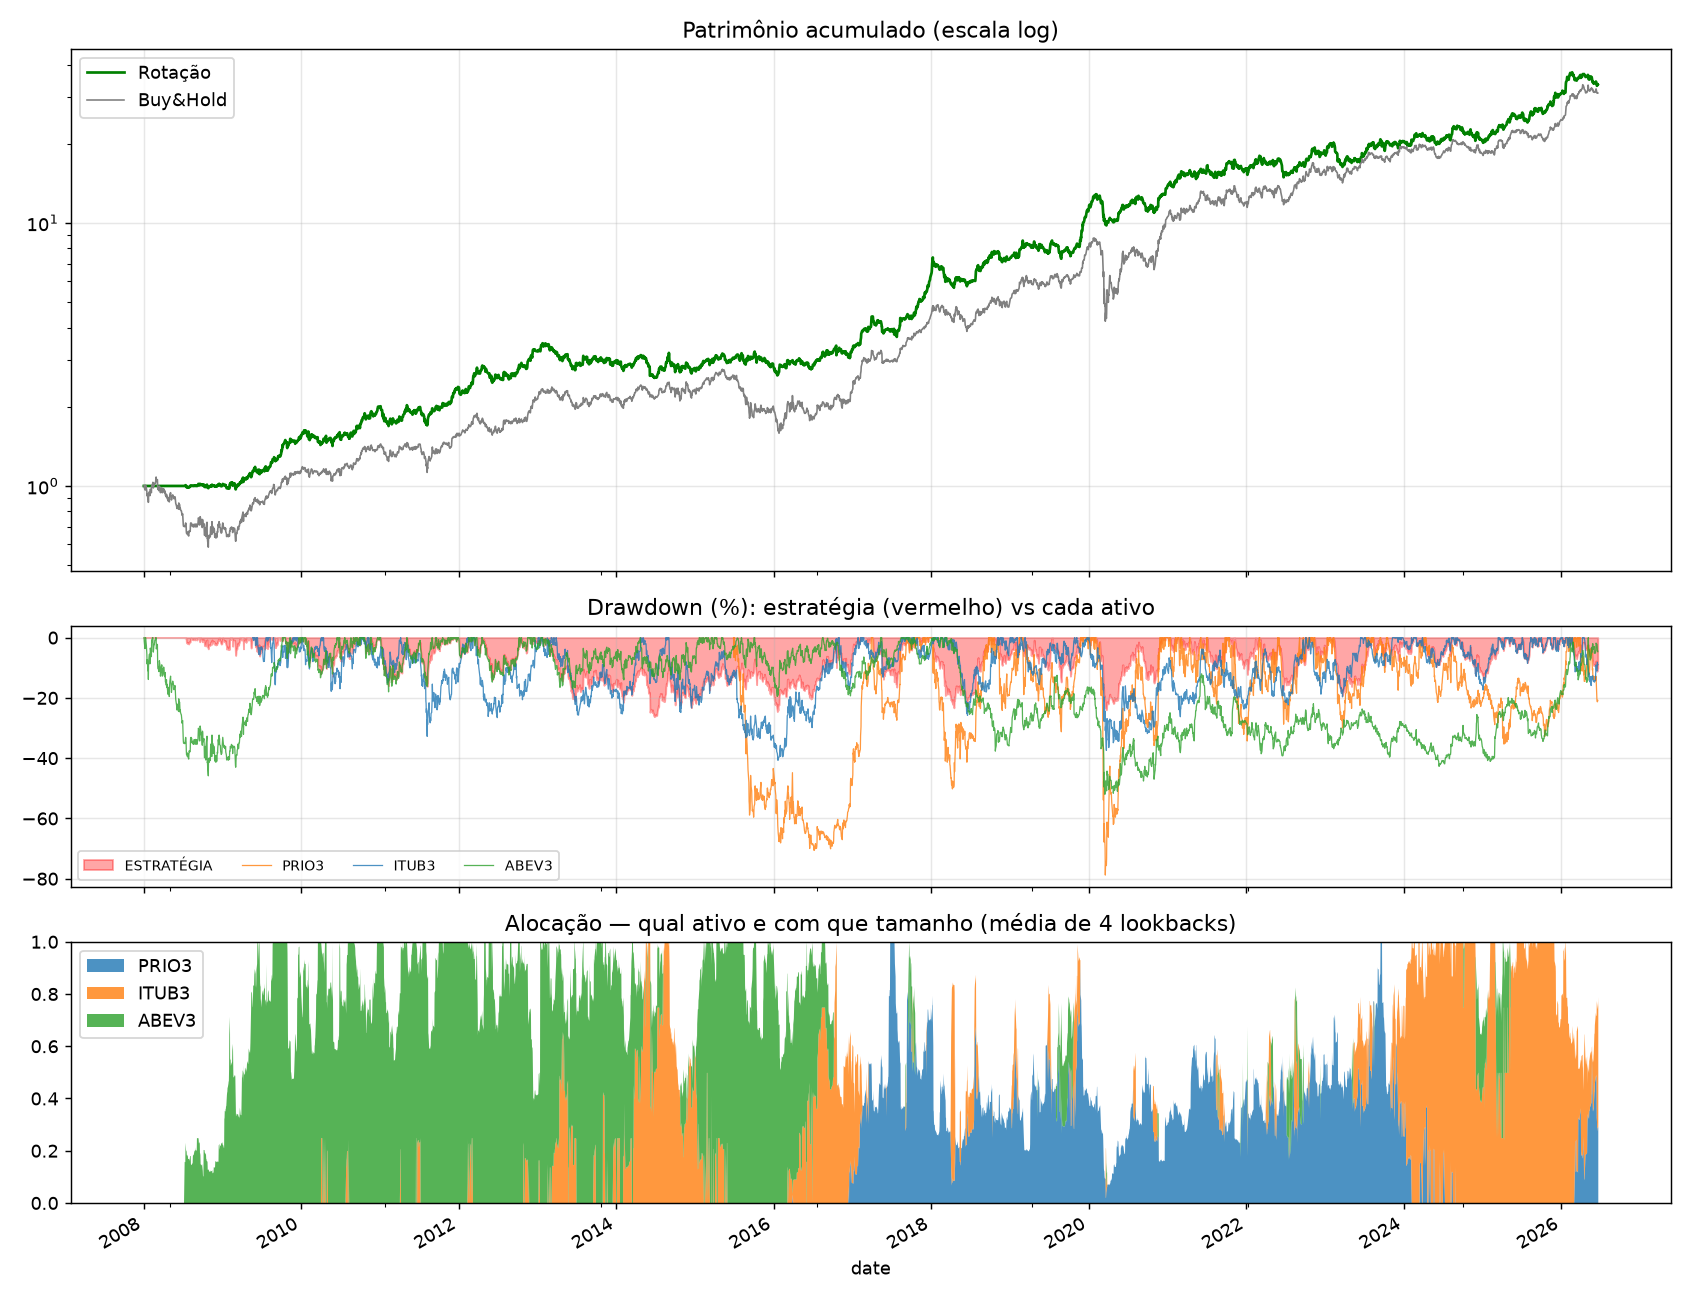
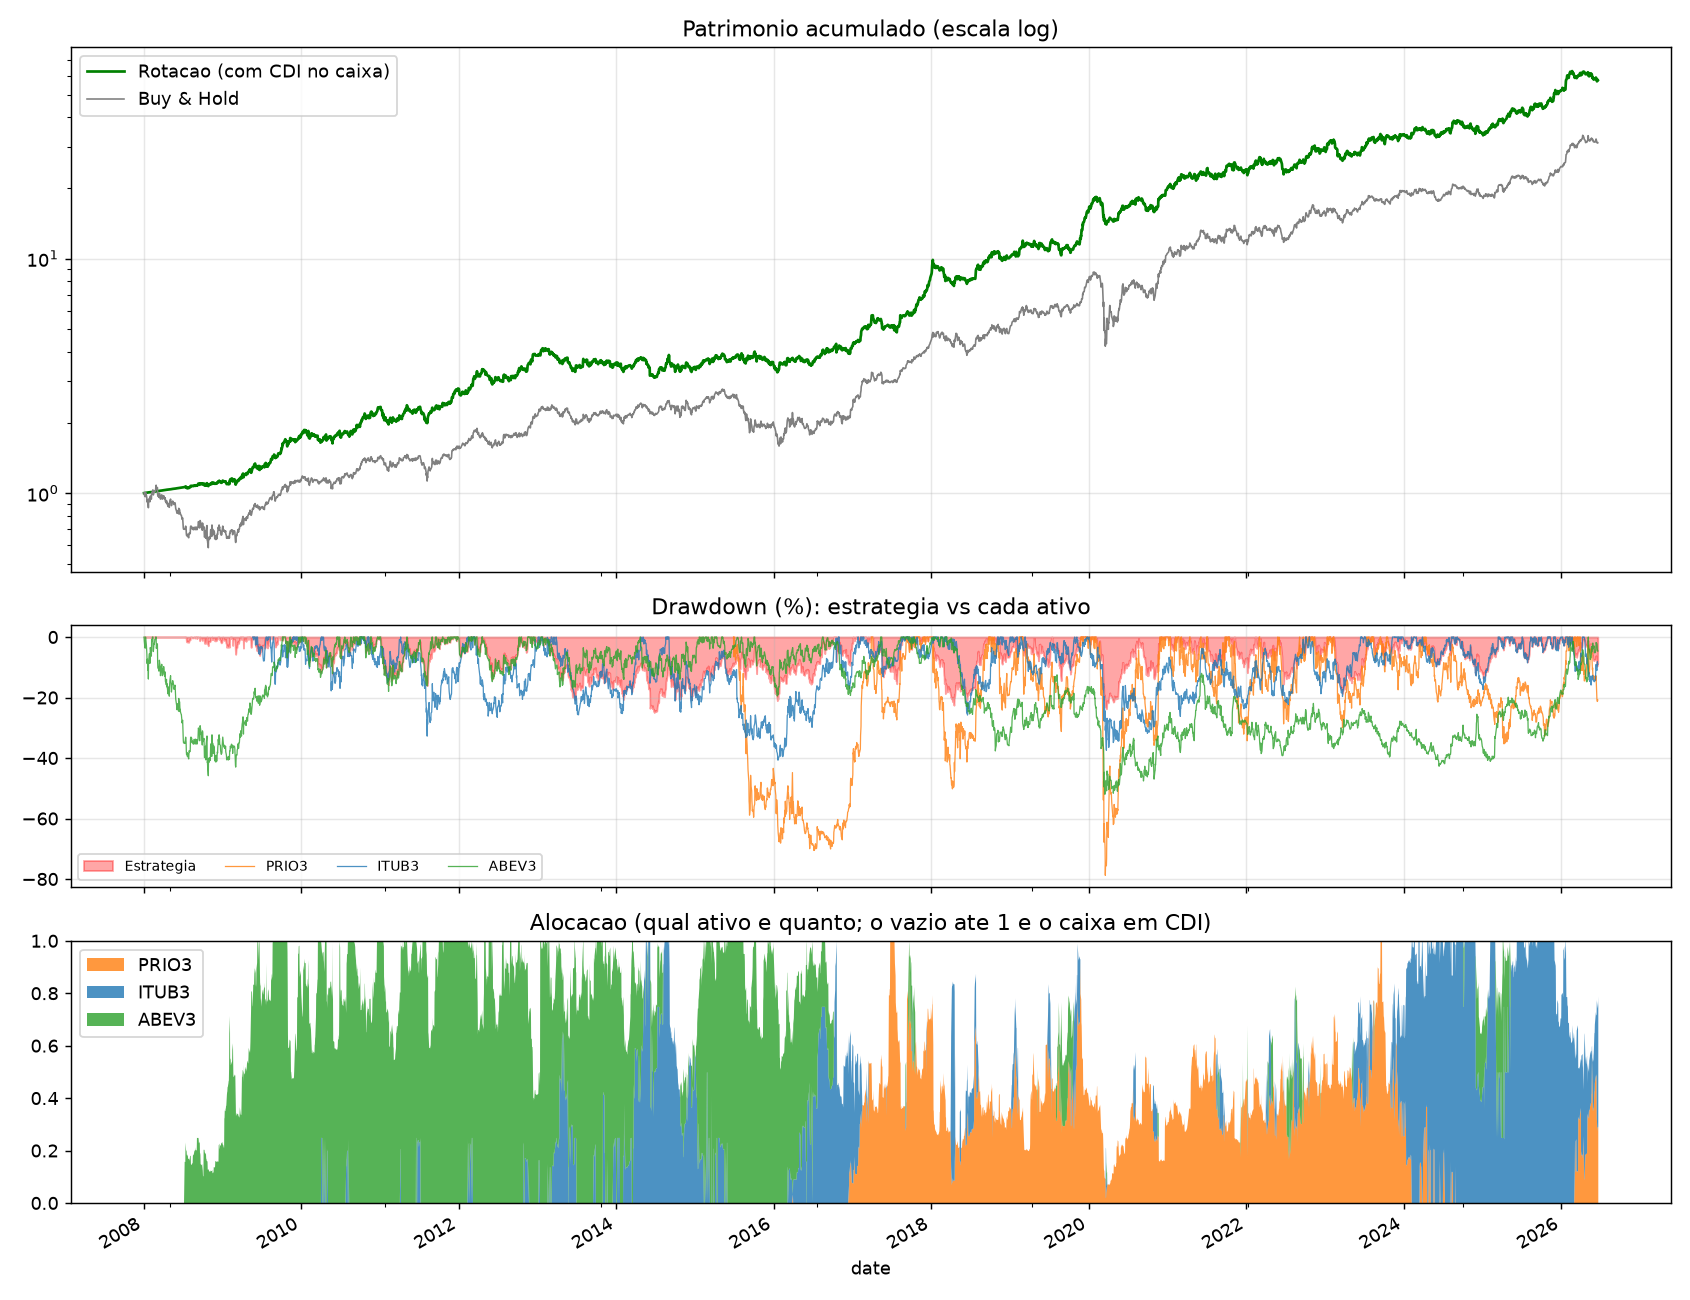
Codigo legivel + CDI no caixa (100% do CDI/ano)
Substitui a versao densa pela legivel e comentada; caixa rende 100% do CDI
de cada ano; Sharpe medido contra o CDI (0,75) alem do vs-zero (1,09).

diff --git a/rotacao_graf.py b/rotacao_graf.py
@@ -1,26 +1,79 @@
-import pandas as pd, numpy as np, matplotlib.pyplot as plt
-C, A, N = 0.0005, 0.20, 252
-LOOKBACKS = [126, 189, 252, 315]                                                     # média de parâmetros
-px = pd.concat({a: pd.read_csv(f"dados/{a}.csv", parse_dates=["date"]).set_index("date")["adjustedClose"]
-                for a in ["PRIO3","ITUB3","ABEV3"]}, axis=1, sort=True).loc["2008":]
-ret = px.pct_change()
-def pesos(L):                                                                        # alocação para UM lookback
-    rank = px.pct_change(L).rank(axis=1)
-    best = rank.eq(rank.max(axis=1), axis=0).astype(float); best = best.div(best.sum(axis=1), axis=0)
-    vol = (best * ret.rolling(20).std() * N**.5).sum(axis=1)
-    return best.mul((A / vol.replace(0, np.nan)).clip(0, 1), axis=0).fillna(0)
-w = sum(pesos(L) for L in LOOKBACKS) / len(LOOKBACKS)                                 # média dos pesos
-r = (w.shift(1) * ret).sum(axis=1) - w.diff().abs().sum(axis=1) * C
-eq = (1+r).cumprod(); bh = (1+ret.mean(axis=1)).cumprod(); dd = (eq/eq.cummax()-1)*100
-print(f"Sharpe={r.mean()/r.std()*N**.5:.2f}  Sortino={r.mean()/r[r<0].std()*N**.5:.2f}  MaxDD={dd.min():.0f}%  ret={eq.iloc[-1]-1:.0%}")
+"""
+Rotacao Momentum + Volatility Targeting (versao legivel, com grafico)
+O caixa nao investido rende 100% do CDI do ano. Long-only, sem alavancagem.
+"""
+import pandas as pd
+import numpy as np
+import matplotlib.pyplot as plt
 
-fig, (a1, a2, a3) = plt.subplots(3, 1, figsize=(13, 10), sharex=True, height_ratios=[2, 1, 1])
-eq.plot(ax=a1, color="green", label="Rotação"); bh.plot(ax=a1, color="gray", lw=.9, label="Buy&Hold")
-a1.set_yscale("log"); a1.legend(loc="upper left"); a1.set_title("Patrimônio acumulado (escala log)"); a1.grid(alpha=.3)
-a2.fill_between(dd.index, dd.values, 0, color="red", alpha=.35, label="ESTRATÉGIA")
-for asset, cor in [("PRIO3","tab:orange"), ("ITUB3","tab:blue"), ("ABEV3","tab:green")]:
-    e = (1 + ret[asset]).cumprod(); a2.plot(e.index, (e/e.cummax()-1)*100, color=cor, lw=.7, alpha=.8, label=asset)
-a2.set_title("Drawdown (%): estratégia (vermelho) vs cada ativo"); a2.legend(loc="lower left", ncol=4, fontsize=8); a2.grid(alpha=.3)
-w.plot.area(ax=a3, linewidth=0, alpha=.8)
-a3.set_title("Alocação — qual ativo e com que tamanho (média de 4 lookbacks)"); a3.legend(loc="upper left"); a3.set_ylim(0, 1)
+# ============================ PARAMETROS ============================
+CUSTO_POR_ORDEM = 0.0005
+VOL_ALVO        = 0.20
+JANELA_VOL      = 20
+LOOKBACKS       = [126, 189, 252, 315]
+DIAS_NO_ANO     = 252
+ATIVOS          = ["PRIO3", "ITUB3", "ABEV3"]
+CORES           = {"PRIO3": "tab:orange", "ITUB3": "tab:blue", "ABEV3": "tab:green"}
+CDI_POR_ANO = {2008:0.1238, 2009:0.0988, 2010:0.0975, 2011:0.1160, 2012:0.0841,
+               2013:0.0806, 2014:0.1081, 2015:0.1324, 2016:0.1400, 2017:0.0993,
+               2018:0.0642, 2019:0.0596, 2020:0.0276, 2021:0.0442, 2022:0.1239,
+               2023:0.1304, 2024:0.1088, 2025:0.1350, 2026:0.1500}
+
+# ============================ 1) DADOS ============================
+precos = pd.concat(
+    {a: pd.read_csv(f"dados/{a}.csv", parse_dates=["date"]).set_index("date")["adjustedClose"]
+     for a in ATIVOS}, axis=1, sort=True).loc["2008":]
+retorno_diario = precos.pct_change()
+cdi_anual  = pd.Series(precos.index.year, index=precos.index).map(CDI_POR_ANO)
+cdi_diario = (1 + cdi_anual) ** (1 / DIAS_NO_ANO) - 1
+
+# ============================ 2) ALOCACAO PARA UMA JANELA ============================
+def alocacao_para_lookback(L):
+    momentum   = precos.pct_change(L)
+    eh_lider   = momentum.rank(axis=1).eq(momentum.rank(axis=1).max(axis=1), axis=0)
+    peso_lider = eh_lider.astype(float)
+    peso_lider = peso_lider.div(peso_lider.sum(axis=1), axis=0)
+    vol_lider  = (peso_lider * retorno_diario.rolling(JANELA_VOL).std() * np.sqrt(DIAS_NO_ANO)).sum(axis=1)
+    fator_vol  = (VOL_ALVO / vol_lider).clip(0, 1)
+    return peso_lider.mul(fator_vol, axis=0).fillna(0)
+
+# ============================ 3) ALOCACAO FINAL ============================
+peso      = sum(alocacao_para_lookback(L) for L in LOOKBACKS) / len(LOOKBACKS)
+exposicao = peso.sum(axis=1)
+caixa     = 1 - exposicao
+
+# ============================ 4) RETORNO ============================
+ret_invest = (peso.shift(1) * retorno_diario).sum(axis=1)
+ret_caixa  = caixa.shift(1) * cdi_diario
+custo      = peso.diff().abs().sum(axis=1) * CUSTO_POR_ORDEM
+retorno_estrategia = (ret_invest + ret_caixa - custo).dropna()
+
+# ============================ 5) RESULTADOS ============================
+excesso      = retorno_estrategia - cdi_diario.reindex(retorno_estrategia.index)
+patrimonio   = (1 + retorno_estrategia).cumprod()
+buy_hold     = (1 + retorno_diario.mean(axis=1)).cumprod()
+drawdown     = (patrimonio / patrimonio.cummax() - 1) * 100
+sharpe_cdi   = excesso.mean() / retorno_estrategia.std() * np.sqrt(DIAS_NO_ANO)
+sortino_cdi  = excesso.mean() / retorno_estrategia[retorno_estrategia < 0].std() * np.sqrt(DIAS_NO_ANO)
+print(f"Sharpe (vs CDI)={sharpe_cdi:.2f}  Sortino={sortino_cdi:.2f}  MaxDD={drawdown.min():.0f}%  ret={patrimonio.iloc[-1]-1:.0%}")
+
+# ============================ 6) GRAFICO (3 paineis) ============================
+fig, (ax_patr, ax_dd, ax_aloc) = plt.subplots(3, 1, figsize=(13, 10), sharex=True, height_ratios=[2, 1, 1])
+
+patrimonio.plot(ax=ax_patr, color="green", label="Rotacao (com CDI no caixa)")
+buy_hold.plot(ax=ax_patr, color="gray", lw=0.9, label="Buy & Hold")
+ax_patr.set_yscale("log"); ax_patr.set_title("Patrimonio acumulado (escala log)")
+ax_patr.legend(loc="upper left"); ax_patr.grid(alpha=0.3)
+
+ax_dd.fill_between(drawdown.index, drawdown.values, 0, color="red", alpha=0.35, label="Estrategia")
+for ativo in ATIVOS:
+    eq = (1 + retorno_diario[ativo]).cumprod()
+    ax_dd.plot(eq.index, (eq / eq.cummax() - 1) * 100, color=CORES[ativo], lw=0.7, alpha=0.8, label=ativo)
+ax_dd.set_title("Drawdown (%): estrategia vs cada ativo")
+ax_dd.legend(loc="lower left", ncol=4, fontsize=8); ax_dd.grid(alpha=0.3)
+
+peso.plot.area(ax=ax_aloc, color=[CORES[a] for a in ATIVOS], linewidth=0, alpha=0.8)
+ax_aloc.set_title("Alocacao (qual ativo e quanto; o vazio ate 1 e o caixa em CDI)")
+ax_aloc.legend(loc="upper left"); ax_aloc.set_ylim(0, 1)
+
 fig.tight_layout(); fig.savefig("rotacao.png", dpi=130); plt.show()

diff --git a/rotacao.py b/rotacao.py
@@ -1,16 +1,82 @@
-import pandas as pd, numpy as np
-C, A, N = 0.0005, 0.20, 252                                                          # custo, vol-alvo, dias/ano
-LOOKBACKS = [126, 189, 252, 315]                                                     # média de parâmetros (não escolho um)
-px = pd.concat({a: pd.read_csv(f"dados/{a}.csv", parse_dates=["date"]).set_index("date")["adjustedClose"]
-                for a in ["PRIO3","ITUB3","ABEV3"]}, axis=1, sort=True).loc["2008":]  # universo expansível
-ret = px.pct_change()
-def pesos(L):                                                                        # alocação para UM lookback L
-    rank = px.pct_change(L).rank(axis=1)                                             # ranqueia os 3 por momentum
-    best = rank.eq(rank.max(axis=1), axis=0).astype(float); best = best.div(best.sum(axis=1), axis=0)
-    vol = (best * ret.rolling(20).std() * N**.5).sum(axis=1)                         # vol do ativo escolhido
-    return best.mul((A / vol.replace(0, np.nan)).clip(0, 1), axis=0).fillna(0)       # tamanho via vol targeting
-w = sum(pesos(L) for L in LOOKBACKS) / len(LOOKBACKS)                                # MÉDIA dos pesos dos 4 lookbacks
-r = (w.shift(1) * ret).sum(axis=1) - w.diff().abs().sum(axis=1) * C                  # retorno líquido (shift=sem look-ahead)
-eq = (1 + r).cumprod(); m = len(r.dropna()) // 2; sh = lambda x: x.dropna().mean() / x.dropna().std() * N**.5
-print(f"Sharpe={sh(r):.2f}  Sortino={r.mean()/r[r<0].std()*N**.5:.2f}  MaxDD={(eq/eq.cummax()-1).min():.0%}  ret={eq.iloc[-1]-1:.0%}")
-print(f"walk-fwd: treino={sh(r.dropna().iloc[:m]):.2f}  prova={sh(r.dropna().iloc[m:]):.2f}  desde2021={sh(r.loc['2021':]):.2f}")
+"""
+Rotacao Momentum + Volatility Targeting (versao legivel)
+--------------------------------------------------------
+A cada dia: aloca no ativo de maior momentum, dimensionado pela volatilidade.
+O capital nao investido rende 100% do CDI do ano. Long-only, sem alavancagem.
+"""
+import pandas as pd
+import numpy as np
+
+# ============================ PARAMETROS ============================
+CUSTO_POR_ORDEM = 0.0005                  # 0,05% por ordem (tabela B3 com 90% de desconto)
+VOL_ALVO        = 0.20                    # volatilidade-alvo anual = o nivel de risco que a estrategia mira
+JANELA_VOL      = 20                      # dias para medir a volatilidade recente
+LOOKBACKS       = [126, 189, 252, 315]   # janelas de momentum; a media evita depender de uma so
+DIAS_NO_ANO     = 252
+ATIVOS          = ["PRIO3", "ITUB3", "ABEV3"]
+
+# CDI acumulado de cada ano (100% do CDI). Valores historicos; recentes (2024-2026) sao estimativas
+# a substituir pela serie oficial do Banco Central. O caixa parado rende esta taxa.
+CDI_POR_ANO = {
+    2008: 0.1238, 2009: 0.0988, 2010: 0.0975, 2011: 0.1160, 2012: 0.0841,
+    2013: 0.0806, 2014: 0.1081, 2015: 0.1324, 2016: 0.1400, 2017: 0.0993,
+    2018: 0.0642, 2019: 0.0596, 2020: 0.0276, 2021: 0.0442, 2022: 0.1239,
+    2023: 0.1304, 2024: 0.1088, 2025: 0.1350, 2026: 0.1500,
+}
+
+# ============================ 1) DADOS ============================
+# Le o preco ajustado (ja com dividendos) de cada ativo e junta numa tabela, desde 2008.
+precos = pd.concat(
+    {a: pd.read_csv(f"dados/{a}.csv", parse_dates=["date"]).set_index("date")["adjustedClose"]
+     for a in ATIVOS},
+    axis=1, sort=True
+).loc["2008":]
+retorno_diario = precos.pct_change()       # retorno de cada ativo, dia a dia
+
+# CDI diario: pega o CDI anual do ano de cada data e converte para taxa diaria.
+cdi_anual  = pd.Series(precos.index.year, index=precos.index).map(CDI_POR_ANO)
+cdi_diario = (1 + cdi_anual) ** (1 / DIAS_NO_ANO) - 1
+
+# ============================ 2) ALOCACAO PARA UMA JANELA ============================
+def alocacao_para_lookback(L):
+    momentum   = precos.pct_change(L)                          # retorno dos ultimos L dias
+    ranking    = momentum.rank(axis=1)                         # posicao de cada ativo no dia
+    eh_lider   = ranking.eq(ranking.max(axis=1), axis=0)       # True para o ativo mais forte
+    peso_lider = eh_lider.astype(float)
+    peso_lider = peso_lider.div(peso_lider.sum(axis=1), axis=0)  # 100% no lider
+
+    vol_lider  = (peso_lider * retorno_diario.rolling(JANELA_VOL).std() * np.sqrt(DIAS_NO_ANO)).sum(axis=1)
+    fator_vol  = (VOL_ALVO / vol_lider).clip(0, 1)             # vol targeting: cap em 1 = sem alavancagem
+    return peso_lider.mul(fator_vol, axis=0).fillna(0)         # peso final desta janela
+
+# ============================ 3) ALOCACAO FINAL = MEDIA DAS 4 JANELAS ============================
+peso      = sum(alocacao_para_lookback(L) for L in LOOKBACKS) / len(LOOKBACKS)
+exposicao = peso.sum(axis=1)               # quanto do capital esta investido (0 a 1)
+caixa     = 1 - exposicao                  # o resto fica em caixa (rende CDI)
+
+# ============================ 4) RETORNO DA ESTRATEGIA ============================
+# Regra de ouro: uso a alocacao de ONTEM (shift) para nao usar informacao do futuro.
+ret_invest = (peso.shift(1) * retorno_diario).sum(axis=1)         # ganho da parte investida
+ret_caixa  = caixa.shift(1) * cdi_diario                          # 100% do CDI sobre o caixa parado
+custo      = peso.diff().abs().sum(axis=1) * CUSTO_POR_ORDEM      # custo a cada troca/ajuste
+retorno_estrategia = (ret_invest + ret_caixa - custo).dropna()
+
+# ============================ 5) RESULTADOS (em sequencia) ============================
+# Sharpe/Sortino medem HABILIDADE -> usam o retorno ACIMA do CDI (CDI nao e alfa, e o piso).
+# Ja o patrimonio/retorno total mostram o dinheiro REAL (com o CDI do caixa incluido).
+excesso         = retorno_estrategia - cdi_diario.reindex(retorno_estrategia.index)
+patrimonio      = (1 + retorno_estrategia).cumprod()
+sharpe          = excesso.mean() / retorno_estrategia.std() * np.sqrt(DIAS_NO_ANO)
+sortino         = excesso.mean() / retorno_estrategia[retorno_estrategia < 0].std() * np.sqrt(DIAS_NO_ANO)
+max_drawdown    = (patrimonio / patrimonio.cummax() - 1).min()
+retorno_total   = patrimonio.iloc[-1] - 1
+exposicao_media = exposicao.mean()
+
+print("=== Rotacao Momentum + Vol Targeting (caixa rende 100% do CDI do ano) ===")
+print(f"Periodo:          {retorno_estrategia.index[0].date()} a {retorno_estrategia.index[-1].date()}")
+print(f"Sharpe (vs CDI):  {sharpe:.2f}")
+print(f"Sortino (vs CDI): {sortino:.2f}")
+print(f"Max Drawdown:     {max_drawdown:.0%}")
+print(f"Retorno total:    {retorno_total:.0%}")
+print(f"Exposicao media:  {exposicao_media:.0%}  (o resto, {1-exposicao_media:.0%}, em caixa rendendo CDI)")
+print(f"Alocacao de hoje: " + ", ".join(f"{a}={peso[a].iloc[-1]:.0%}" for a in ATIVOS))

diff --git a/README.md b/README.md
@@ -1,33 +1,34 @@
-# Quant Momentum — Rotação Dinâmica
+# Quant Momentum — Rotacao Dinamica
 
-Estratégia sistemática de **momentum cross-sectional com volatility targeting**, aplicada a três ações brasileiras (ITUB3, PRIO3, ABEV3) com dados desde 2008. A cada dia o sistema aloca o capital no ativo de maior momentum, dimensiona a posição pela volatilidade e rotaciona quando outro assume a liderança. Long-only, sem alavancagem, líquido de custos.
+Estrategia sistematica de momentum cross-sectional com volatility targeting, aplicada a ITUB3, PRIO3 e ABEV3 (desde 2008). A cada dia o sistema aloca no ativo de maior momentum, dimensiona pela volatilidade e rotaciona quando outro lidera. O capital nao investido rende 100% do CDI. Long-only, sem alavancagem, liquido de custos.
 
-## Resultados (desde 2008, líquido de custos)
+## Resultados (desde 2008, liquido de custos)
 
-| Estratégia | Sharpe | Sortino | Max Drawdown | Retorno |
+| Versao | Sharpe | Sortino | Max Drawdown | Retorno |
 |---|---|---|---|---|
-| **Rotação** | **1,09** | **1,58** | **−26%** | **+3.257%** |
-| Buy & Hold (1/3 cada) | 0,83 | 1,15 | −52% | +3.017% |
+| Pura (sem CDI, vs zero) | 1,09 | 1,58 | -26% | +3.257% |
+| **Com CDI no caixa (vs CDI)** | **0,75** | **1,10** | **-25%** | **+5.660%** |
+| Buy & Hold (1/3 cada) | 0,83 | 1,15 | -52% | +3.017% |
+
+Nota honesta: no Brasil o risco-livre (CDI) e alto, entao o Sharpe medido CONTRA o CDI (0,75) e o numero honesto; o 1,09 e contra zero. O retorno total inclui o CDI do caixa.
 
 ![Resultado](rotacao.png)
 
 ## Como rodar
-
 ```bash
 pip install -r requirements.txt
-python3 rotacao_graf.py      # estratégia + gráfico (patrimônio / drawdown / alocação)
-python3 rotacao.py           # apenas as métricas (núcleo)
+python3 rotacao_graf.py      # estrategia + grafico
+python3 rotacao.py           # so as metricas
+python3 sinais.py            # exporta a alocacao por ativo
 ```
-
-Requer a pasta `dados/` com os CSVs no formato `date, open, high, low, close, adjustedClose, volume`.
+Requer a pasta `dados/` com CSVs no formato `date,open,high,low,close,adjustedClose,volume`.
 
 ## Estrutura
-
-| Arquivo | Conteúdo |
+| Arquivo | Conteudo |
 |---|---|
-| `rotacao.py` | Núcleo da estratégia (vetorizado) |
-| `rotacao_graf.py` | Estratégia + gráfico |
-| `dados/` | Preços ajustados dos três ativos |
-| `requirements.txt` | Dependências (pandas, numpy, matplotlib) |
+| `rotacao.py` | Nucleo da estrategia (legivel, comentado) |
+| `rotacao_graf.py` | Estrategia + grafico (3 paineis) |
+| `sinais.py` | Exporta a alocacao diaria por ativo |
+| `dados/` | Precos ajustados dos 3 ativos |
 
-Stack: Python · pandas · numpy · matplotlib.
+Stack: Python, pandas, numpy, matplotlib.